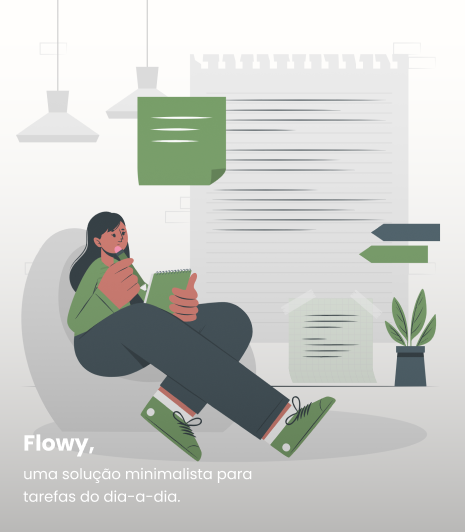
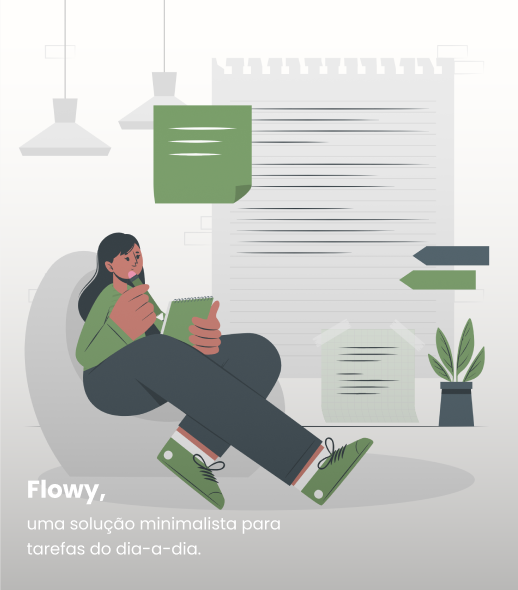
feat: melhorias na tela de login

diff --git a/src/app/components/login/login.component.css b/src/app/components/login/login.component.css
@@ -1,63 +1,60 @@
-body {
-  font-family: Arial, sans-serif;
-  margin: 0;
-  padding: 0;
+.container {
   display: flex;
   justify-content: center;
   align-items: center;
   height: 100vh;
-  background-color: #f3f4f6;
-}
-
-.container {
-  display: flex;
-  max-width: 800px; /* Ajusta o tamanho máximo da tela */
-  margin: 0 auto; /* Centraliza na tela */
-  background-color: #ffffff;
-  border-radius: 20px;
-  box-shadow: 0 4px 8px rgba(0, 0, 0, 0.1);
-  overflow: hidden;
-}
-
-.image-container {
-  flex: 1;
-  max-width: 50%; /* Ajusta o tamanho da imagem */
-}
-
-.image-container img {
-  width: 100%;
-  height: auto;
-  object-fit: cover;
+  background-color: #fffefc;
 }
 
 .form-container {
-  flex: 1;
   padding: 40px;
+  max-width: 400px; 
+  text-align: center; 
 }
 
-.form-container h1 {
-  font-size: 24px;
-  margin-bottom: 20px;
+.image-container {
+  display: flex;
+  justify-content: center;
+  align-items: center;
+ 
+}
+
+.image-container img {
+  max-width: 100%; 
+  max-height: 100%;
+  border-radius: 20px;
 }
 
 .button-container {
-  display: flex;
-  gap: 10px;
   margin-bottom: 20px;
+  background-color: #b9c9b2;
+  border-radius: 50px;  
+  padding-bottom: 5px;
+  padding-top: 5px;
+  display: flex;
+  margin-left: 50px;
+  width: 300px;
+  justify-content: center;
 }
 
 .button-container button {
   padding: 10px 20px;
   border: none;
   border-radius: 5px;
-  background-color: #4caf50;
+  background-color: #b9c9b2;
   color: #ffffff;
   font-size: 16px;
-  cursor: pointer;
+  cursor: pointer;  
+  border-radius: 50px;
+  /* margin: 5px; */
+  margin-left: 10px;
+  margin-rigt: 10px;
+  padding-left: 30px;
+  padding-right: 30px;
 }
 
 .button-container button:hover {
-  background-color: #45a049;
+  background-color: #5e704a;
 }
 
 p {
@@ -67,6 +64,7 @@ p {
 form {
   display: flex;
   flex-direction: column;
+  align-items: center; /* Adicionei esta linha para centralizar os elementos do formulário */
 }
 
 .input-container {
@@ -102,15 +100,15 @@ a {
 }
 
 button[type="submit"] {
-  padding: 10px 20px;
+  padding: 10px 75px;
   border: none;
   border-radius: 5px;
-  background-color: #4caf50;
+  background-color: #5e704a;
   color: #ffffff;
   font-size: 16px;
   cursor: pointer;
 }
 
 button[type="submit"]:hover {
-  background-color: #45a049;
+  background-color: #b9c9b2;
 }

diff --git a/src/app/app.routes.ts b/src/app/app.routes.ts
@@ -1,11 +1,9 @@
 import { NgModule } from '@angular/core';
 import { Routes, RouterModule } from '@angular/router';
 import { LoginComponent } from './components/login/login.component';
-import { SignUpComponent } from './components/sign-up/sign-up.component';
 
 export const routes: Routes = [
   { path: 'login', component: LoginComponent },
-  { path: 'cadastro', component: SignUpComponent },
   { path: '', redirectTo: '/login', pathMatch: 'full' }, // Página inicial redireciona para login
 ];
 

diff --git a/src/index.html b/src/index.html
@@ -2,7 +2,7 @@
 <html lang="en">
 <head>
   <meta charset="utf-8">
-  <title>Untitled</title>
+  <title>Flowy</title>
   <base href="/">
   <meta name="viewport" content="width=device-width, initial-scale=1">
   <link rel="icon" type="image/x-icon" href="favicon.ico">
